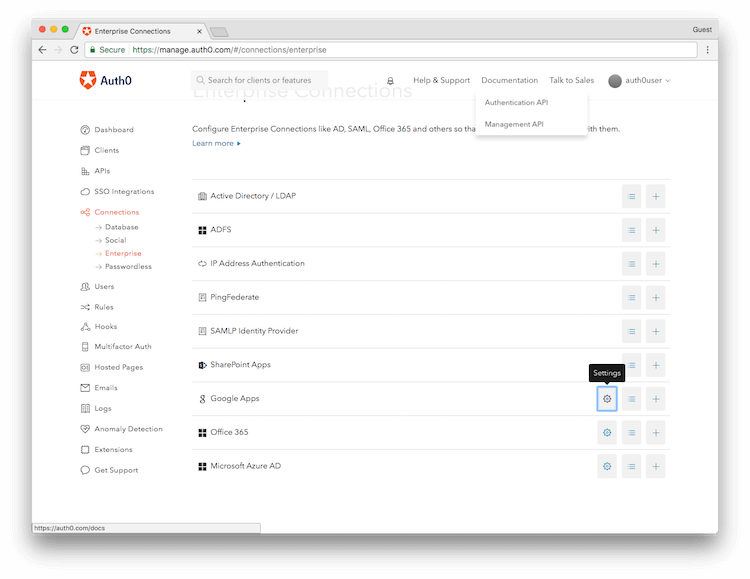
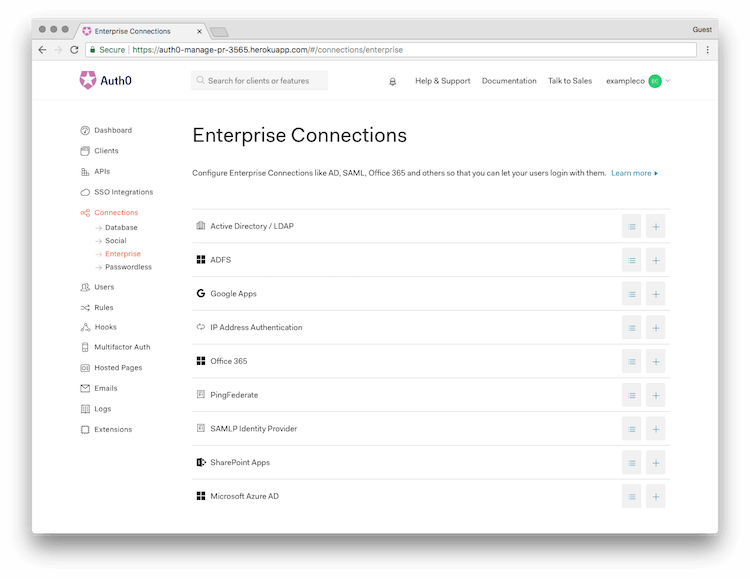
Update Google docs

diff --git a/articles/connections/enterprise/google-apps.md b/articles/connections/enterprise/google-apps.md
@@ -80,42 +80,32 @@ If you are planning to connect to Google Apps enterprise domains, you will need 
 ## Enable and Configure the Auth0 Enterprise Connection
 
 1. Log in to your Auth0 account, and navigate to [Enterprise Connections](${manage_url}/#/connections/enterprise).
-2. Scroll down to the row for Google Apps, and click the **Settings** gear icon.
+2. Scroll down to the row for Google Apps, and click the **Add New** plus icon.
 
   ![Enterprise Connections](/media/articles/connections/enterprise/google/enterprise-connections.png)
 
-  You will see the *Configuration* page for the Google Apps Connection.
+  You will see the *Settings* page for the Google Apps Connection.
 
   ![Google Apps Enterprise Connection Configuration](/media/articles/connections/enterprise/google/google-apps-connection-settings.png)
 
-3. On the Configuration screen, provide the following information:
+3. On the Settings screen, provide the following information:
 
-    * **Client ID**: the Client ID for your Google Apps Account
-    * **Client Secret**: the Client Secret for your Google Apps Account
-    * **Attributes**: the flag that indicates how much information you want stored in the Auth0 User Profile. Select one of the two options:
-      * **Basic Profile**: includes the `email` and the `email verified` flag
-      * **Extended Profile**: includes the name, public profile URL, photo, gender, birthdate, country, language, and timezone
-    * **Extended Attributes**: select one or more of the following flags to bring the corresponding information to Auth0
-      * **Groups**: the distribution list(s) to which the user belongs
-      * **Is Domain Administrator**: whether the user is a domain administrator or not
-      * **Is Account Suspended**: whether the user's account is suspended or not
-      * **Agreed to Terms**: whether the user's agreed to the terms of service or not
-    * **Enable Users API**: the flag that indicates whether you've chosen to enable the ability to make calls to the Google Directory API
+| Parameter | Description |
+| - | - |
+| **Google Apps Domain** | the Google Apps domain you're using for authentication |
+| **Domain Aliases** (optional) | a comma-separated list of domains registered as aliases for the primary domain |
+| **Client ID** | the Client ID for your Google Apps Account |
+| **Client Secret** | the Client Secret for your Google Apps Account |
+| **Attributes** | the flag that indicates how much information you want stored in the Auth0 User Profile. Select one of the two options: **Basic Profile** (includes the `email` and the `email verified` flag) or **Extended Profile** (includes the name, public profile URL, photo, gender, birthdate, country, language, and timezone) |
+| **Extended Attributes: Groups** | the distribution list(s) to which the user belongs |
+| **Extended Attributes: Is Domain Administrator** | whether the user is a domain administrator or not |
+| **Extended Attributes: Is Account Suspended**  | whether the user's account is suspended or not |
+| **Extended Attributes: Agreed to Terms** | whether the user's agreed to the terms of service or not |
+| Enable Users API | the flag that indicates whether you've chosen to enable the ability to make calls to the Google Directory API |
 
-    Click **Save** when you're done.
+Click **Save** when you're done.
 
-4. At this point, you've finished configuring your Google Apps Enterprise Connection. To use it, you'll need to *create* a Connection. You can do this by returning to the [Enterprise Connections](${manage_url}/#/connections/enterprise) page, scrolling down to the row for Google Apps, and clicking on the **Plus** icon. This brings up the *Create Google Apps Connection* window.
-
-  ![Google Apps Enterprise Create Connection Settings](/media/articles/connections/enterprise/google/create-connection.png)
-
-5. On the *Create Google Apps Connection* window, provide the following information:
-
-    * **Google Apps Domain**: the Google Apps domain you're using for authentication
-    * **Domain Aliases** (optional): a comma-separated list of domains registered as aliases for the primary domain
-
-    Click **Save**.
-
-6. You will need to configure your settings so that your app can use Google's Admin APIs. If you're the administrator, you can click **Continue** on the Connection's *Settings* page to do so. If not, provide the URL you're given to your administrator so that they can adjust the required Settings.
+4. You will need to configure your settings so that your app can use Google's Admin APIs. If you're the administrator, you can click **Continue** on the Connection's *Settings* page to do so. If not, provide the URL you're given to your administrator so that they can adjust the required Settings.
 
   ![Google Apps Enterprise Connection Administrator Settings](/media/articles/connections/enterprise/google/config-settings.png)
 
